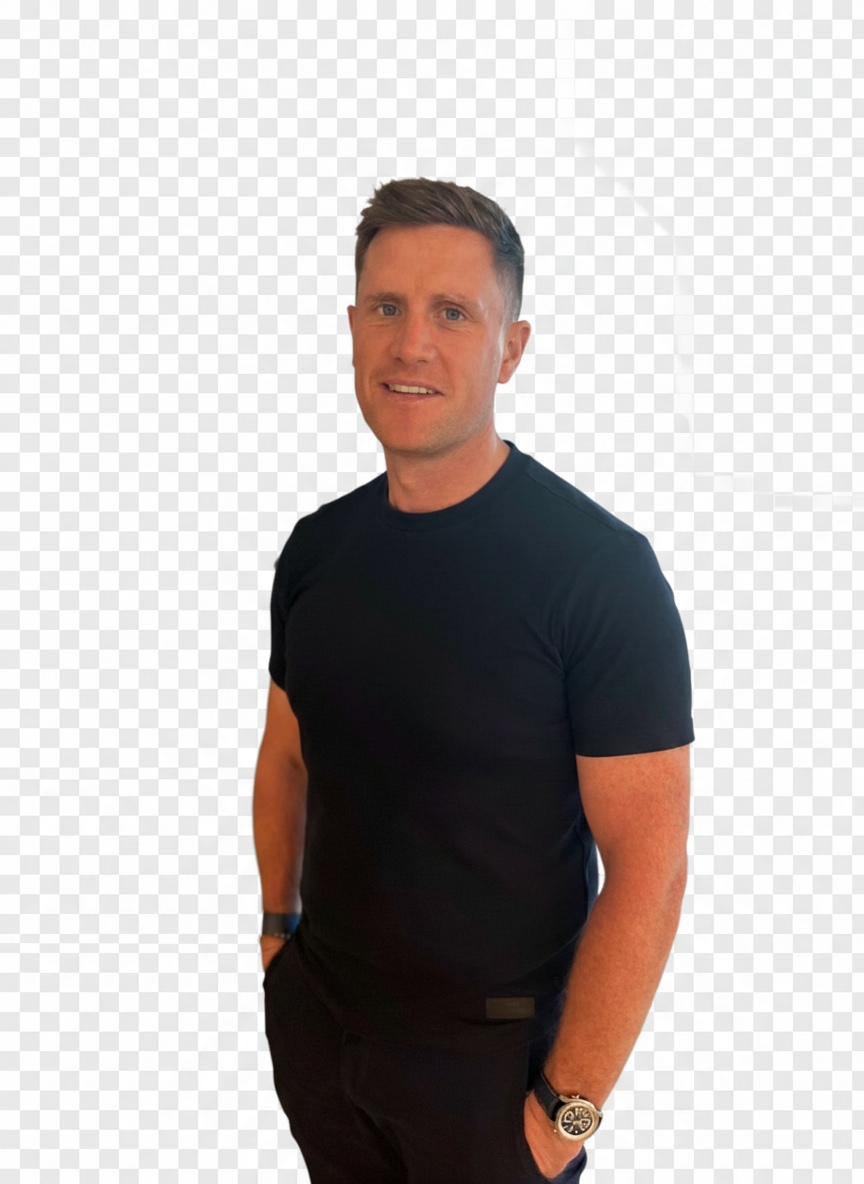
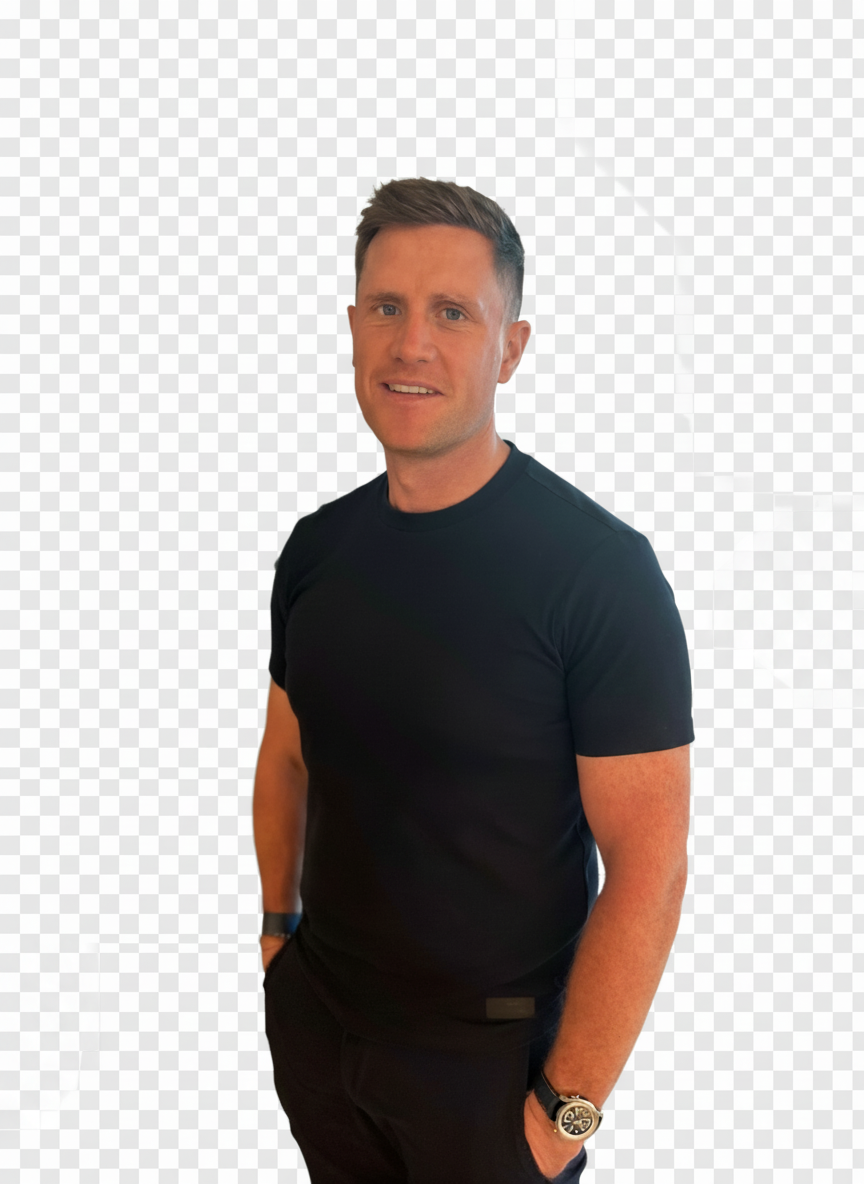
Changes

diff --git a/src/components/FeaturedCoaches.tsx b/src/components/FeaturedCoaches.tsx
@@ -162,18 +162,18 @@ export function FeaturedCoaches() {
                 <TiltCard maxTilt={12} scale={1.05}>
                   <Link
                     to={`/coaching/${coach.id}`}
-                    className="group relative block transition-all duration-500 w-44 h-64 sm:w-52 sm:h-80 md:w-64 md:h-96 lg:w-72 lg:h-[420px] z-10"
+                    className="group relative flex items-end justify-center transition-all duration-500 w-44 h-64 sm:w-52 sm:h-80 md:w-64 md:h-96 lg:w-72 lg:h-[420px] z-10 overflow-hidden"
                   >
                     {/* Coach Cutout or Avatar */}
                     {coach.cutout_url ? (
                       <img
                         src={
                           coach.cutout_url.startsWith("/")
-                            ? `${coach.cutout_url}?v=2`
+                            ? `${coach.cutout_url}?v=3`
                             : coach.cutout_url
                         }
                         alt={coach.display_name || "Coach"}
-                        className="w-full h-full object-contain object-bottom transition-all duration-500 drop-shadow-[0_10px_30px_rgba(0,0,0,0.5)] group-hover:scale-105"
+                        className="max-w-[90%] max-h-[95%] object-contain object-bottom transition-all duration-500 drop-shadow-[0_10px_30px_rgba(0,0,0,0.5)] group-hover:scale-105"
                       />
                     ) : coach.avatar_url ? (
                       <div className="absolute inset-0 rounded-t-full overflow-hidden">
